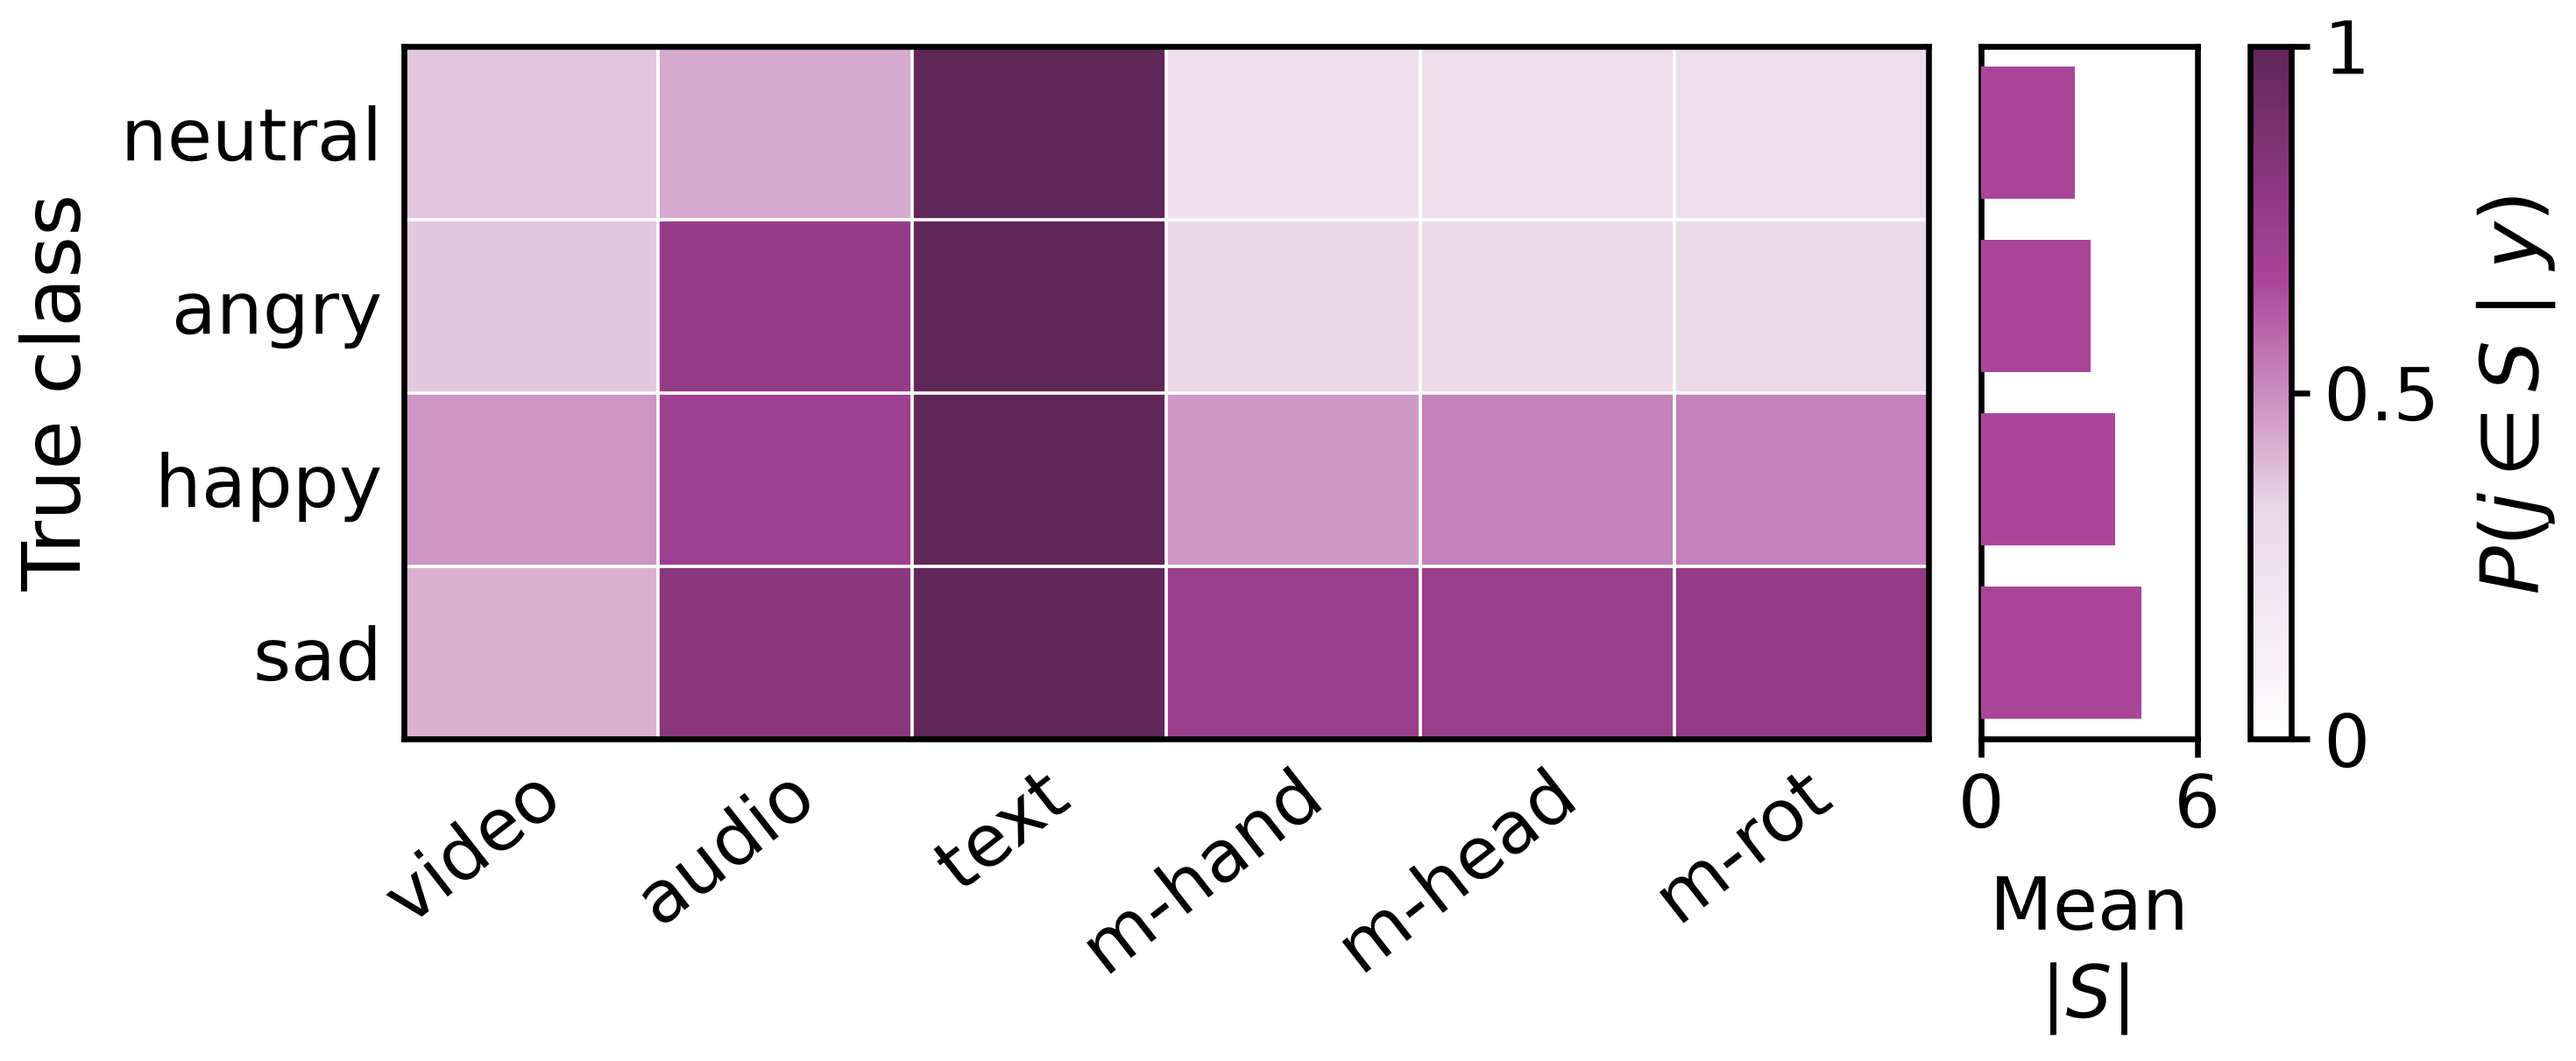
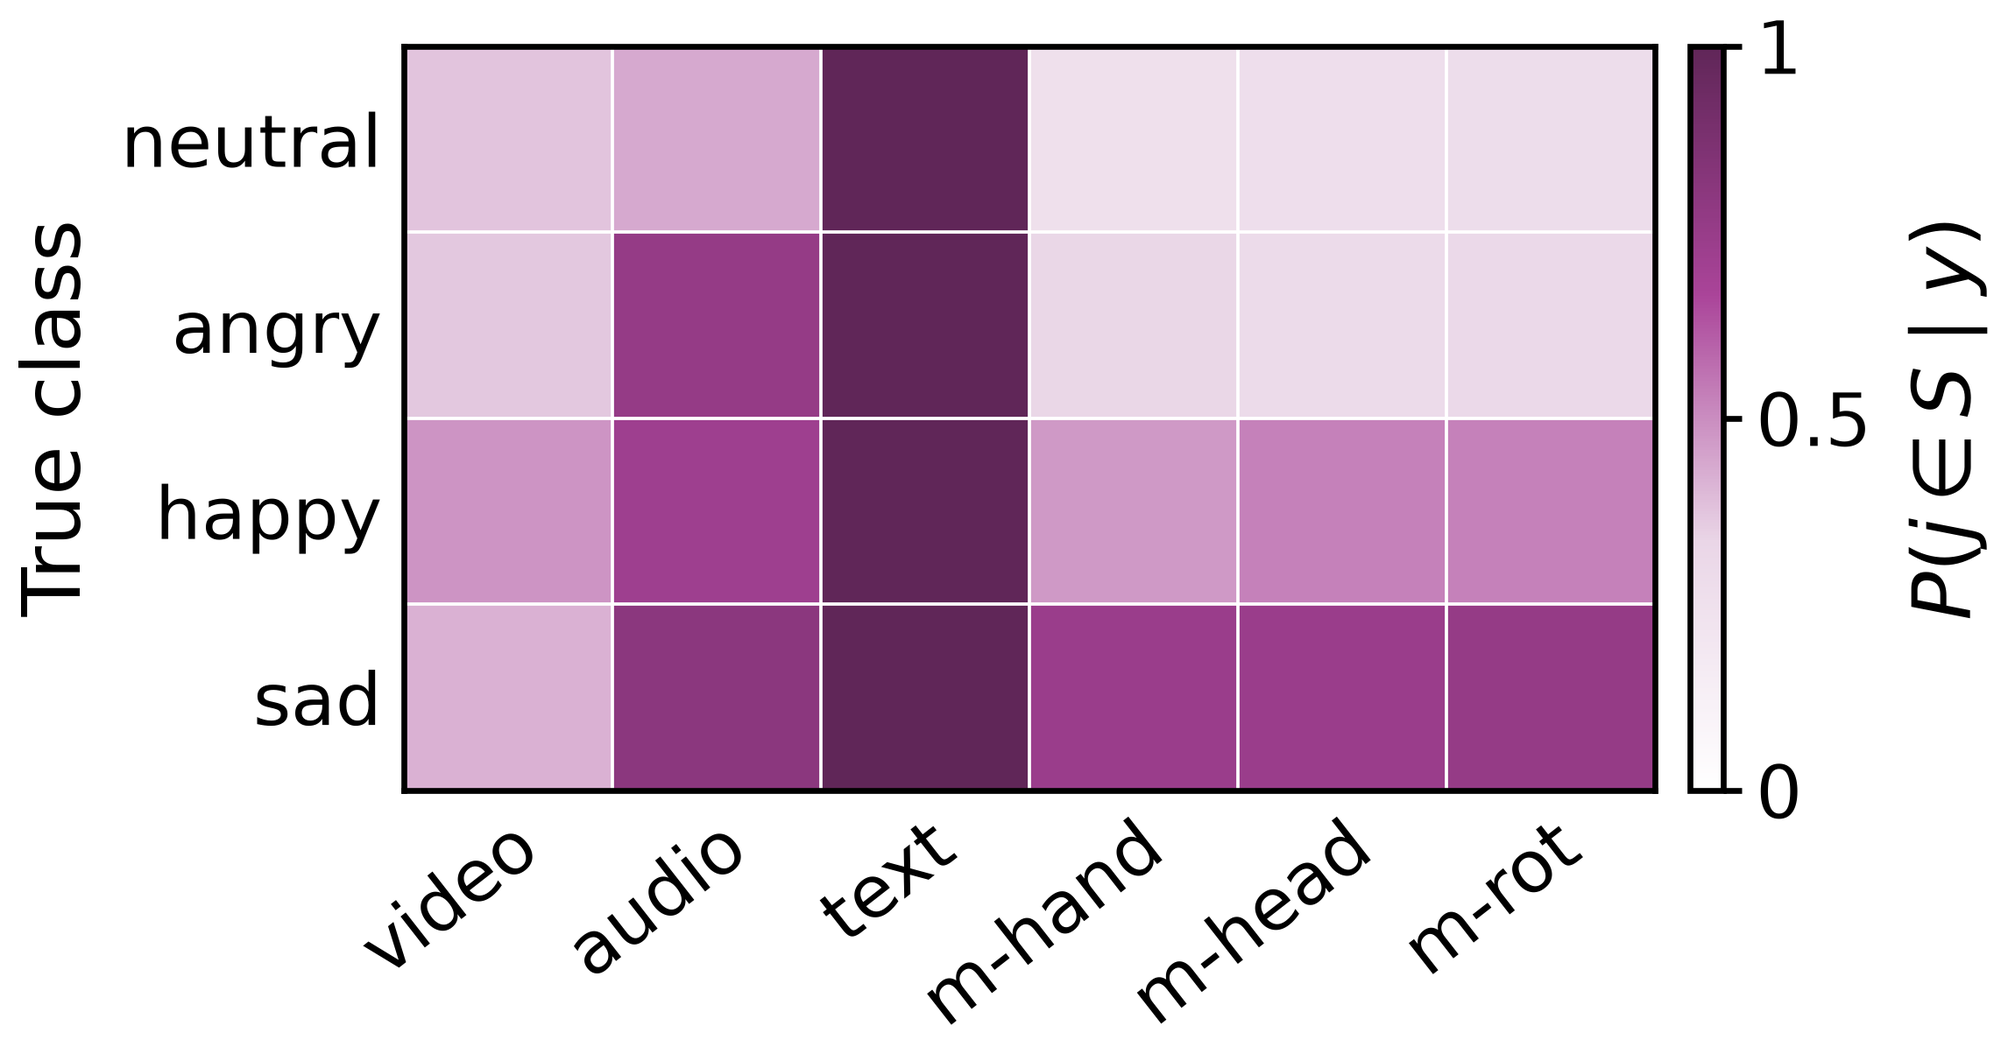
Simplify class-selection heatmaps and narrow IEMOCAP figure

diff --git a/plotting/plot_selection_by_class.py b/plotting/plot_selection_by_class.py
@@ -1,9 +1,9 @@
 #!/usr/bin/env python3
 """Publication figures for class-conditional selection, P(j in S | y).
 
-The default is a heatmap for every dataset, with a common probability scale
-and a separate strip for the mean acquired-set size. Optional bars retain one
-panel per class and use the paper's categorical colors. CSV values and class
+The default is a compact heatmap for every dataset, with a common probability
+scale and no mean acquired-set-size strip. Optional bars retain one panel per
+class and use the paper's categorical colors. CSV values and class
 order are unchanged; the figures show means, not uncertainty estimates.
 
 No figure title or outer frame is added. PDF fonts are embedded, and PNGs are
@@ -163,10 +163,10 @@ def heatmap(ds, auto='heatmap', *, output_dir=None, font_size=10.0,
     C, M = P.shape
     # Keep dense class labels readable at their native print size.
     row_height = max(0.17, 1.4 * font_size / 72)
-    fig, (ax, axk, cax) = plt.subplots(
-        1, 3, figsize=(width or max(4.2, 0.48 * M + 2.0),
+    fig, (ax, cax) = plt.subplots(
+        1, 2, figsize=(width or max(3.6, 0.40 * M + 1.4),
                        height or max(2.0, row_height * C + 0.82)),
-        gridspec_kw=dict(width_ratios=[M, 0.85, 0.16]), layout='constrained')
+        gridspec_kw=dict(width_ratios=[M, 0.16]), layout='constrained')
     fig.set_constrained_layout_pads(w_pad=0.025, h_pad=0.025, wspace=0.035, hspace=0.02)
     im = ax.imshow(P, aspect='auto', cmap=CMAP, vmin=0, vmax=1, interpolation='nearest')
     ax.set_xticks(range(M))
@@ -187,13 +187,6 @@ def heatmap(ds, auto='heatmap', *, output_dir=None, font_size=10.0,
             ax.text(m, c, f'{P[c, m]:.2f}', ha='center', va='center',
                     fontsize=font_size - 1,
                     color='white' if P[c, m] >= 0.6 else 'black')
-    axk.barh(range(C), k, color=PURPLE, height=0.76, zorder=3)
-    axk.set_ylim(ax.get_ylim()); axk.set_yticks([])
-    axk.set_xlim(0, M); axk.set_xticks([0, M])
-    axk.set_xlabel('Mean\n$|S|$', fontsize=font_size, labelpad=3)
-    axk.grid(True, axis='x', lw=0.5, color='#DEDEDE')
-    axk.set_axisbelow(True)
-    frame(axk)
     cb = fig.colorbar(im, cax=cax, ticks=[0, 0.5, 1])
     cb.set_label(r'$P(j \in S \mid y)$', fontsize=font_size + 1, labelpad=5)
     cb.ax.yaxis.set_major_formatter(StrMethodFormatter('{x:g}'))

diff --git a/plotting/README.md b/plotting/README.md
@@ -18,8 +18,8 @@ directory, no absolute paths, no GPU. Regenerate everything with
 | `iclr_style.py` | shared style (colours, grid, spines, error bars) | — |
 
 `plot_selection_by_class.py` holds **one implementation per form, not per dataset** —
-`bars(ds)` draws a panel per class, `heatmap(ds)` draws a class x modality image with a side
-strip for the per-class mean acquired-set size. `--form auto` (the default) draws a heatmap for
+`bars(ds)` draws a panel per class, `heatmap(ds)` draws a class x modality image with a
+probability colorbar. `--form auto` (the default) draws a heatmap for
 every dataset, which is what the paper uses throughout: one comparable view across label
 spaces from $C{=}4$ to $C{=}27$, where a panel per class stops being readable. `--form bars`
 is kept because it is the more direct reading when the label space is small.
@@ -41,7 +41,9 @@ CSV measurements are unchanged; the cascade retains its supplied standard-deviat
 Both scripts accept `--font-size`, `--width-inches`, `--height-inches`, `--dpi`, and
 `--output-dir`. Dimensions refer to the Matplotlib canvas: class-selection exports trim
 the margins, while the cascade preserves the exact canvas size.
-Class-selection heatmaps also accept `--annotate` for two-decimal probability labels:
+Class-selection heatmaps omit the redundant mean acquired-set-size strip and use a
+narrower canvas (3.8 inches for IEMOCAP), keeping the fonts and probability scale
+unchanged. They also accept `--annotate` for two-decimal probability labels:
 
     python plot_selection_by_class.py --datasets iemocap --annotate
     python plot_cascade.py --width-inches 5.5 --font-size 10
